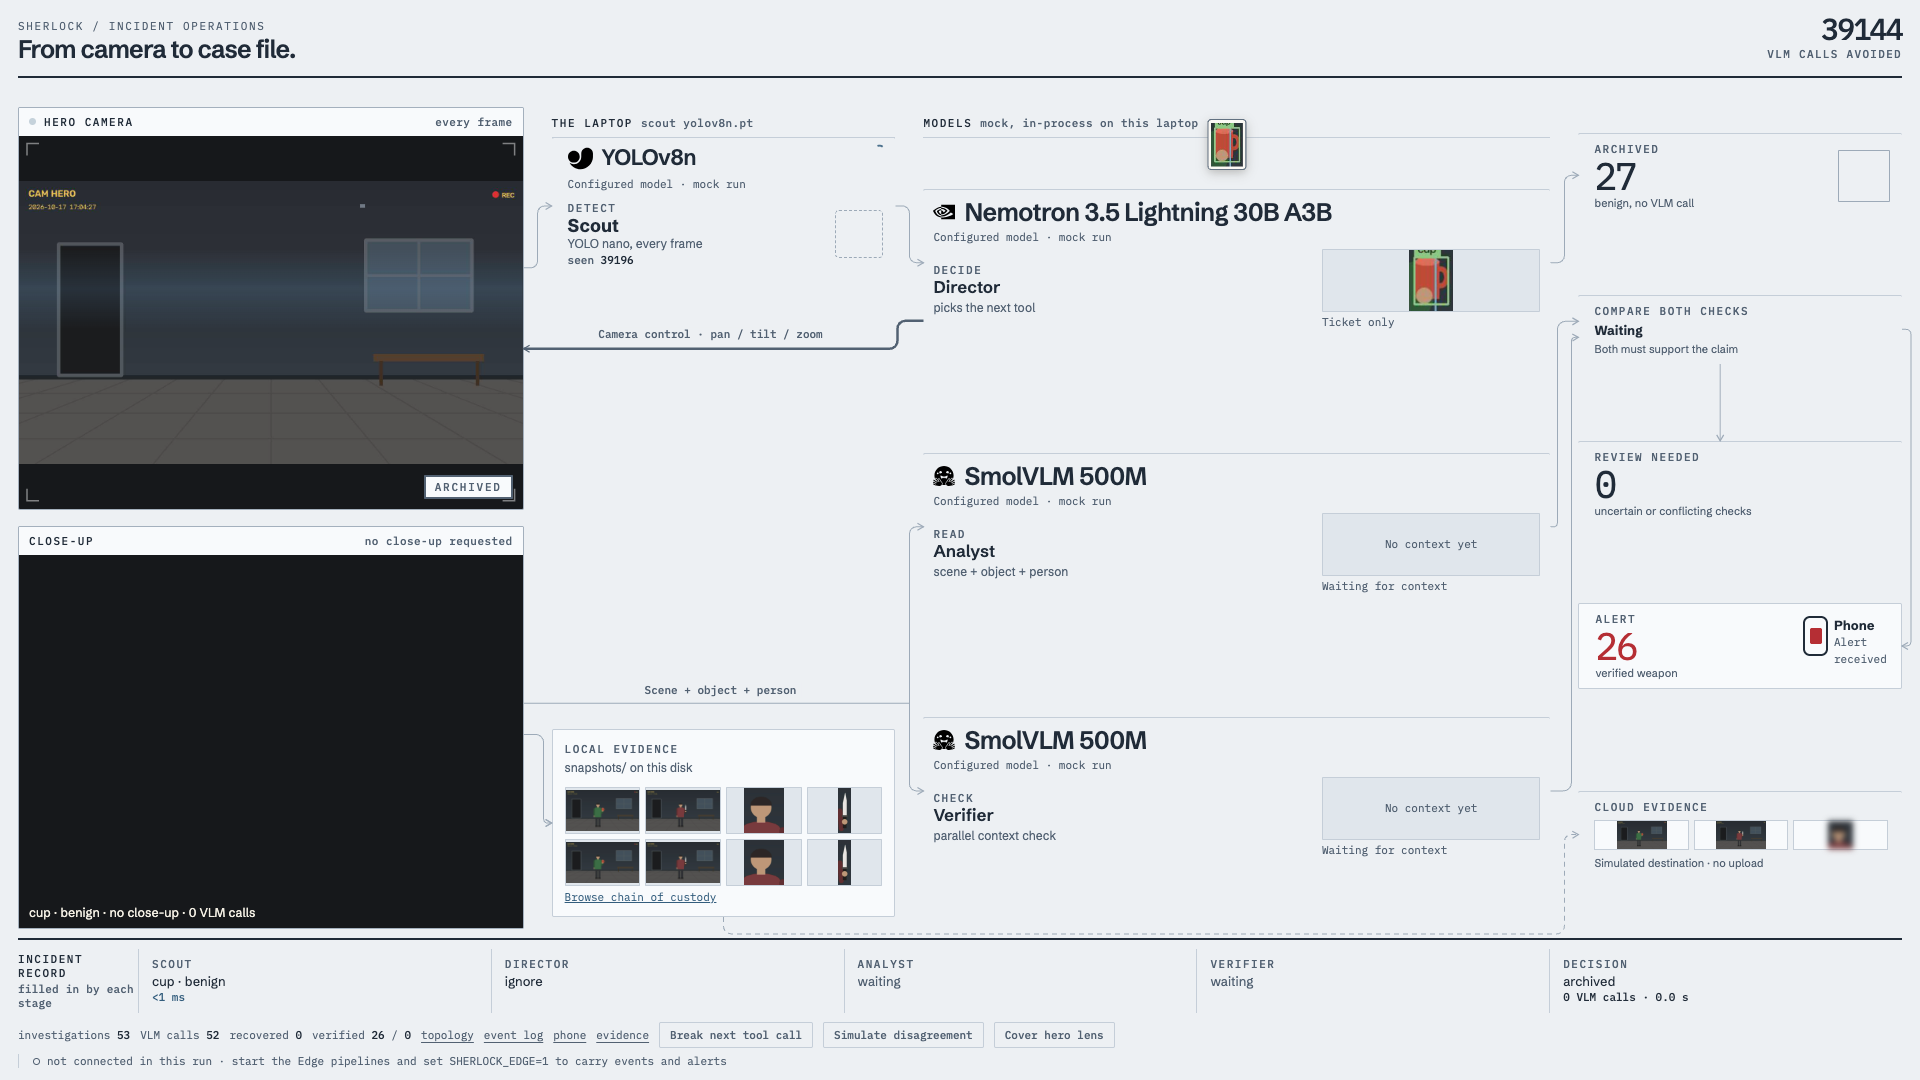
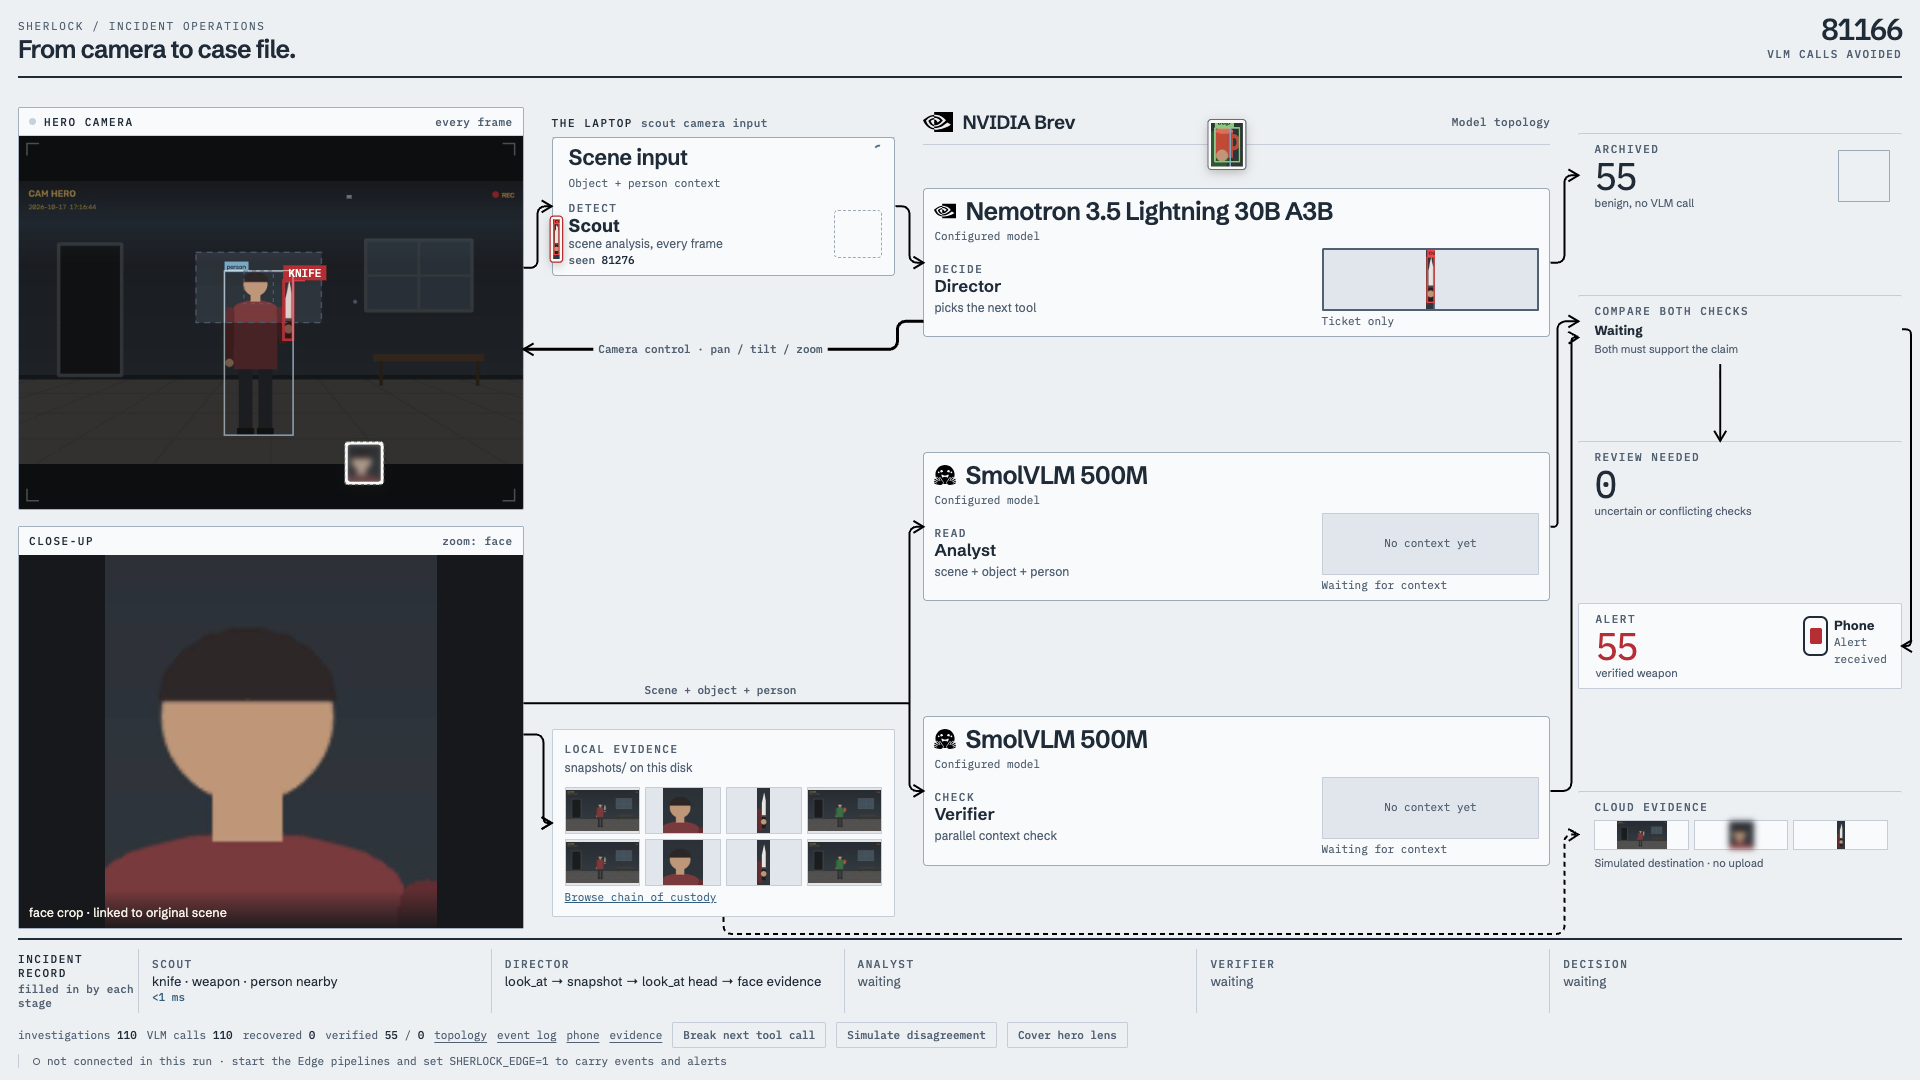
Box model nodes, feature NVIDIA Brev and strengthen connectors (#101)
* Restore boxed model topology and prominent Brev branding

* Guard optional topology nodes before observing layout

diff --git a/sherlock/sherlock/dashboard/static/pipeline.html b/sherlock/sherlock/dashboard/static/pipeline.html
@@ -209,7 +209,7 @@
     </div>
 
     <div class="col zone models" id="zModels">
-      <div class="zhead" id="modelsHead">Models<small id="modeTag"></small></div>
+      <div class="zhead" id="modelsHead"><img class="brev-logo" src="/pipeline/assets/brand-nvidia.svg" alt="NVIDIA"><span class="brev-name">NVIDIA Brev</span><small id="modeTag">Model topology</small></div>
       <article class="stage" id="st-director" style="--c: var(--director)">
         <div class="model-heading"><img class="model-logo" id="directorLogo" alt="" hidden><div class="model-name" id="directorModel"></div></div>
         <div class="model-runtime" id="directorRuntime"></div>
@@ -335,11 +335,6 @@ const FONT = { mono: '"IBM Plex Mono", ui-monospace, monospace', sans: '"Schibst
 
 // ---- config echoed from the server ------------------------------------------------
 const M = CFG.models || {}, short = m => (m || '').split('/').pop();
-const hosts = [...new Set(['director', 'analyst', 'verifier'].map(r => (M[r] || {}).where).filter(Boolean))];
-// The serving program is what each endpoint said it is (CFG.servers); unknown shows only where.
-const SV = CFG.servers || {}, roles = ['director', 'analyst', 'verifier'].map(r => SV[r] || {});
-const runs = roles.every(s => s.name) ? [...new Set(roles.map(s => s.name))].join(' + ') : 'models';
-$('modeTag').textContent = CFG.mock ? 'mock, in-process on this laptop' : runs + ' on ' + hosts.join(', ');
 // The Scout is labelled from what /mode says runs (scene truth in a synthetic run),
 // never from SCOUT_BACKEND alone, so a synthetic run never claims YOLO.
 const showScout = backend => {
@@ -352,7 +347,7 @@ fetch('/mode', {cache: 'no-store'}).then(r => r.ok ? r.json() : null)
 for (const r of ['director', 'analyst', 'verifier']) {
   const el = $(r + 'Sub'), base = el.textContent;
   el.textContent = base;
-  el.title = CFG.mock ? 'mock, no model server' : `${(M[r] || {}).model} at ${(M[r] || {}).url}`;
+  el.title = (M[r] || {}).model || '';
 }
 // Expanso status comes from /expanso: live only while the Edge pipelines on this
 // laptop accept this run's events. Nothing here is configured by hand.
@@ -449,12 +444,12 @@ function layout() {
   const lane = bk.t - 26;
   const contextY = Math.max(c.t + 48, Math.min(c.cy - 16, lane));
   const analystY = Math.min(an.cy, lane - 18);
-  const controlY = Math.max(s.b + 25, d.b + 12);
+  const controlY = Math.max(s.b + 12, d.b + 12);
   const wy = w.t + (w.b - w.t) * 0.4;
   E.frames = mk([P(w.r, wy), P(g1, wy), P(g1, s.cy), P(s.l, s.cy)], { shape: 'frame', color: C.rail, lseg: 1 });
   E.uplink = mk([P(s.r, s.cy), P(g3, s.cy), P(g3, d.cy), P(d.l, d.cy)], { color: C.scout });
   E.lookat = mk([P(d.l, d.b - 16), P(g3 - 12, d.b - 16), P(g3 - 12, controlY), P(w.r, controlY)],
-    { label: 'Camera control · pan / tilt / zoom', color: C.director, lseg: 2, labelOffset: -14, prominent: true });
+    { label: 'Camera control · pan / tilt / zoom', color: C.director, lseg: 2, labelOffset: 0, prominent: true });
   E.context = mk([P(c.r, contextY), P(g1 - 6, contextY), P(g1 - 6, lane), P(g3, lane)],
     { label: 'Scene + object + person', color: C.analyst, lseg: 2, labelOffset: -13 });
   E.crop = mk([P(g3, lane), P(g3, analystY), P(an.l, analystY)], { color: C.analyst });
@@ -469,6 +464,8 @@ function layout() {
   E.toAlert = mk([P(R.comparison.r, R.comparison.cy), P(R.out.r + 9, R.comparison.cy), P(R.out.r + 9, R.alert.cy), P(R.alert.r, R.alert.cy)], { color: C.weapon });
 }
 addEventListener('resize', layout);
+const stageResize = new ResizeObserver(layout);
+for (const stage of Object.values(ST)) { if (stage) stageResize.observe(stage); }
 if (document.fonts) document.fonts.ready.then(layout);
 setTimeout(layout, 1200);
 
@@ -926,8 +923,8 @@ function tracePath(e, r = 8) {
 }
 function drawArrow(e, color) {
   const a = pointAt(e, 0.985), b = e.pts[e.pts.length - 1], ang = Math.atan2(b.y - a.y, b.x - a.x);
-  ctx.save(); ctx.translate(b.x, b.y); ctx.rotate(ang); ctx.strokeStyle = color; ctx.lineWidth = 1.2; ctx.setLineDash([]);
-  ctx.beginPath(); ctx.moveTo(-6, -3.5); ctx.lineTo(0, 0); ctx.lineTo(-6, 3.5); ctx.stroke(); ctx.restore();
+  ctx.save(); ctx.translate(b.x, b.y); ctx.rotate(ang); ctx.strokeStyle = color; ctx.lineWidth = 2; ctx.setLineDash([]);
+  ctx.beginPath(); ctx.moveTo(-10, -6); ctx.lineTo(0, 0); ctx.lineTo(-10, 6); ctx.stroke(); ctx.restore();
 }
 function drawLabel(e, hot) {
   if (!e.label) return;
@@ -971,9 +968,9 @@ function drawRails(t) {
   for (const e of Object.values(E)) {
     const hot = e.hot > t;
     ctx.save();
-    ctx.strokeStyle = hot || e.prominent ? e.tint || e.color : C.rail; ctx.lineWidth = e.prominent ? 2.5 : (hot ? 1.5 : 1);
+    ctx.strokeStyle = '#000000'; ctx.lineWidth = e.prominent ? 3 : 2;
     ctx.setLineDash(e.dash ? [5, 4] : []); tracePath(e); ctx.stroke();
-    if (e !== E.context) drawArrow(e, hot || e.prominent ? e.tint || e.color : C.rail);
+    if (e !== E.context) drawArrow(e, '#000000');
     ctx.restore();
     drawLabel(e, hot);
   }

diff --git a/sherlock/sherlock/dashboard/static/pipeline-models.js b/sherlock/sherlock/dashboard/static/pipeline-models.js
@@ -50,7 +50,7 @@ function scoutIdentity(backend, model) {
   const none = {brand: '', vendor: ''};
 
   if (backend === 'scene') {
-    return {...none, name: 'Scene truth', tag: 'scene truth', runtime: 'Synthetic scene · no detector runs', sub: 'scripted scene, every frame'};
+    return {...none, name: 'Scene input', tag: 'camera input', runtime: 'Object + person context', sub: 'scene analysis, every frame'};
   }
 
   if (backend === 'motion') {
@@ -85,7 +85,7 @@ class ModelCards {
       const model = config.models[role]?.model || '';
 
       showIdentity(role, modelIdentity(model), model);
-      modelElement(`${role}Runtime`).textContent = config.mock ? 'Configured model · mock run' : 'Configured model';
+      modelElement(`${role}Runtime`).textContent = 'Configured model';
     }
 
     this.scout(null);

diff --git a/sherlock/sherlock/dashboard/static/casefile.css b/sherlock/sherlock/dashboard/static/casefile.css
@@ -93,3 +93,18 @@ footer a { border-bottom: 0; text-decoration: underline; text-underline-offset: 
   .incident-expanded { padding: 16px 8px 28px; }
   .bar h1 { font-size: 19px; }
 }
+
+/* Bounded nodes keep the model topology readable in the recording view. */
+.models > .stage, #st-scout {
+  border: 1px solid #9daab8;
+  background: var(--card);
+  border-radius: 4px;
+}
+.models > .stage.hot, #st-scout.hot {
+  border-color: var(--ink);
+  outline: 1px solid var(--ink);
+}
+#modelsHead { align-items: center; top: 0; min-height: 36px; gap: 9px; }
+#modelsHead .brev-logo { width: 30px; height: 30px; object-fit: contain; }
+#modelsHead .brev-name { font: 600 19px var(--sans); letter-spacing: -.02em; text-transform: none; }
+#modelsHead small { margin-left: auto; }

diff --git a/sherlock/sherlock/dashboard/static/topology.html b/sherlock/sherlock/dashboard/static/topology.html
@@ -139,9 +139,9 @@ $('r-vlm').textContent += port('analyst');
 const SV = CFG.servers || {}, runs = ['director', 'analyst', 'verifier'].map(r => SV[r]);
 const COUNT = ['no', 'one', 'two', 'three'];
 if (CFG.mock) {
-  $('mode').textContent = 'mock run · everything on this laptop';
+  $('mode').textContent = 'Model architecture';
   $('brev').classList.add('off');
-  $('brevSub').textContent = 'not in this run: the Director, Analyst and Verifier are in-process mocks on the laptop';
+  $('brevSub').textContent = 'Director, Analyst and Verifier model topology';
   $('serverSub').textContent = 'not in this run';
 } else {
   if (runs.every(s => s && s.name && s.name === runs[0].name)) {

diff --git a/tests/test_pipeline_view.py b/tests/test_pipeline_view.py
@@ -142,8 +142,8 @@ def test_scout_card_names_the_detector_mode_reports(monkeypatch):
     assert scout_cards(config, ["scene", "yolo", "motion"]) == {
         "before /mode": {"name": "Scout", "logo": "", "runtime": "Detector not reported",
                          "sub": "detector not reported", "tag": None},
-        "scene": {"name": "Scene truth", "logo": "", "runtime": "Synthetic scene · no detector runs",
-                  "sub": "scripted scene, every frame", "tag": "scene truth"},
+        "scene": {"name": "Scene input", "logo": "", "runtime": "Object + person context",
+                  "sub": "scene analysis, every frame", "tag": "camera input"},
         "yolo": {"name": "YOLO11n", "logo": "/pipeline/assets/brand-ultralytics.svg", "runtime": "Configured model",
                  "sub": "YOLO, every frame", "tag": "YOLO11n"},
         "motion": {"name": "Motion detector", "logo": "", "runtime": "Background subtraction · no model",
@@ -166,5 +166,5 @@ def test_a_synthetic_run_never_labels_the_scout_yolo(tmp_path, monkeypatch):
         assert "fetch('/mode'" in body and "showScout(m && m.scout_backend)" in body, path
     assert '<script src="/pipeline/assets/pipeline-models.js"></script>' in client.get("/topology").text
     shown = scout_cards(_page_cfg(client.get("/").text), [backend])
-    assert shown[backend]["name"] == "Scene truth"
+    assert shown[backend]["name"] == "Scene input"
     assert "yolo" not in json.dumps(shown).lower()
